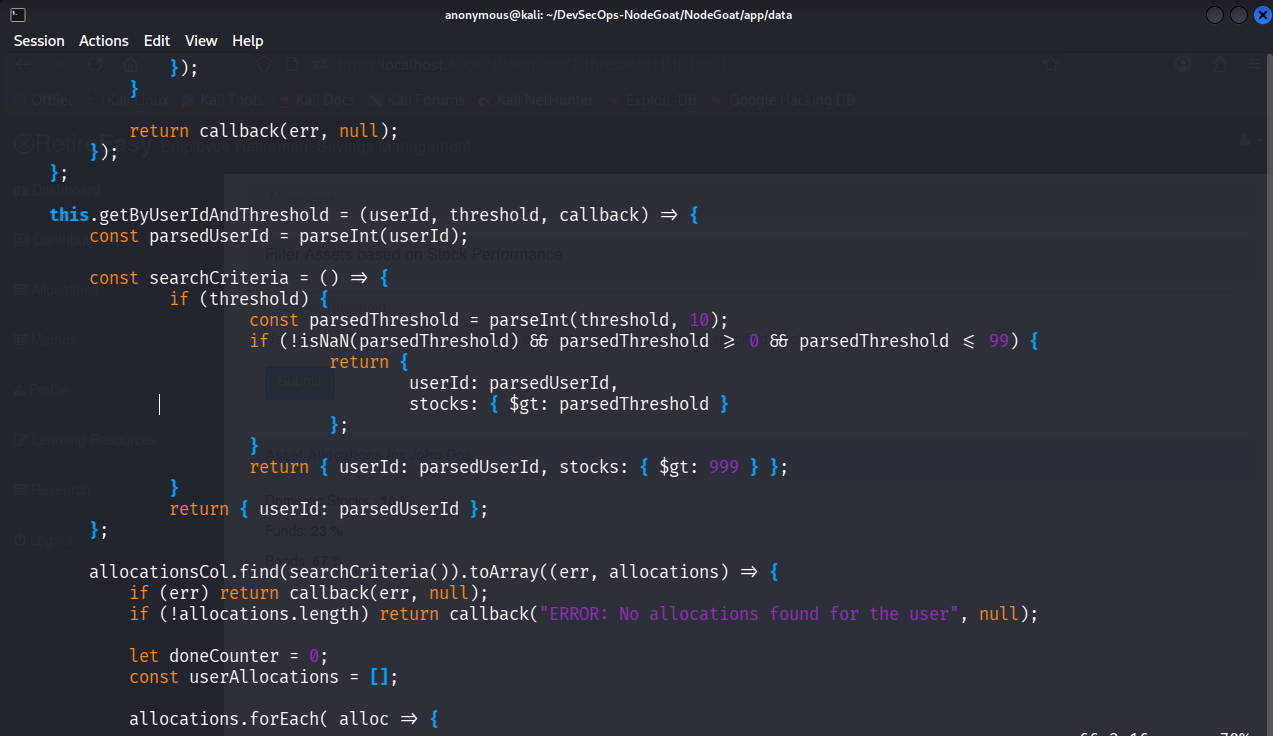
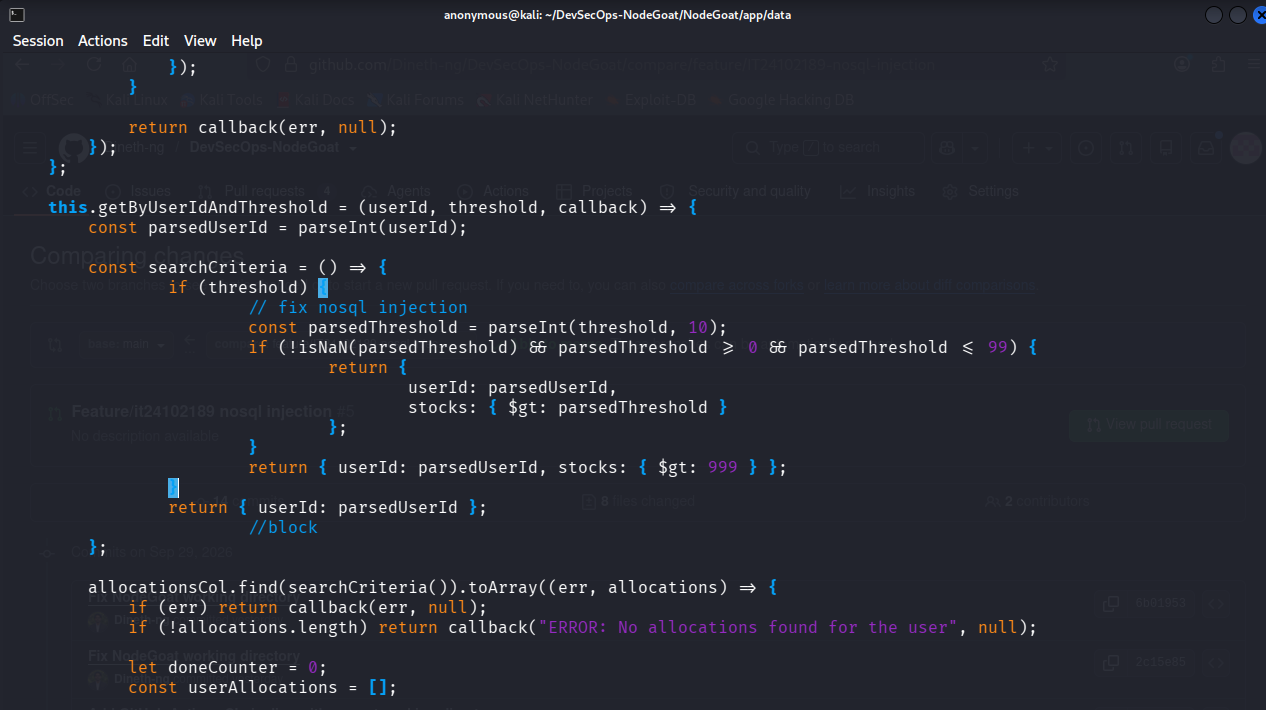
add commentto code add update proof ss

diff --git a/NodeGoat/app/data/allocations-dao.js b/NodeGoat/app/data/allocations-dao.js
@@ -59,6 +59,7 @@ const AllocationsDAO = function(db){
 
 	const searchCriteria = () => {
 		if (threshold) {
+			// fix nosql injection
 			const parsedThreshold = parseInt(threshold, 10);
 			if (!isNaN(parsedThreshold) && parsedThreshold >= 0 && parsedThreshold <= 99) {
 				return {
@@ -69,6 +70,7 @@ const AllocationsDAO = function(db){
 			return { userId: parsedUserId, stocks: { $gt: 999 } };
 		}
 		return { userId: parsedUserId };
+			//block  
 	};
 
         allocationsCol.find(searchCriteria()).toArray((err, allocations) => {
